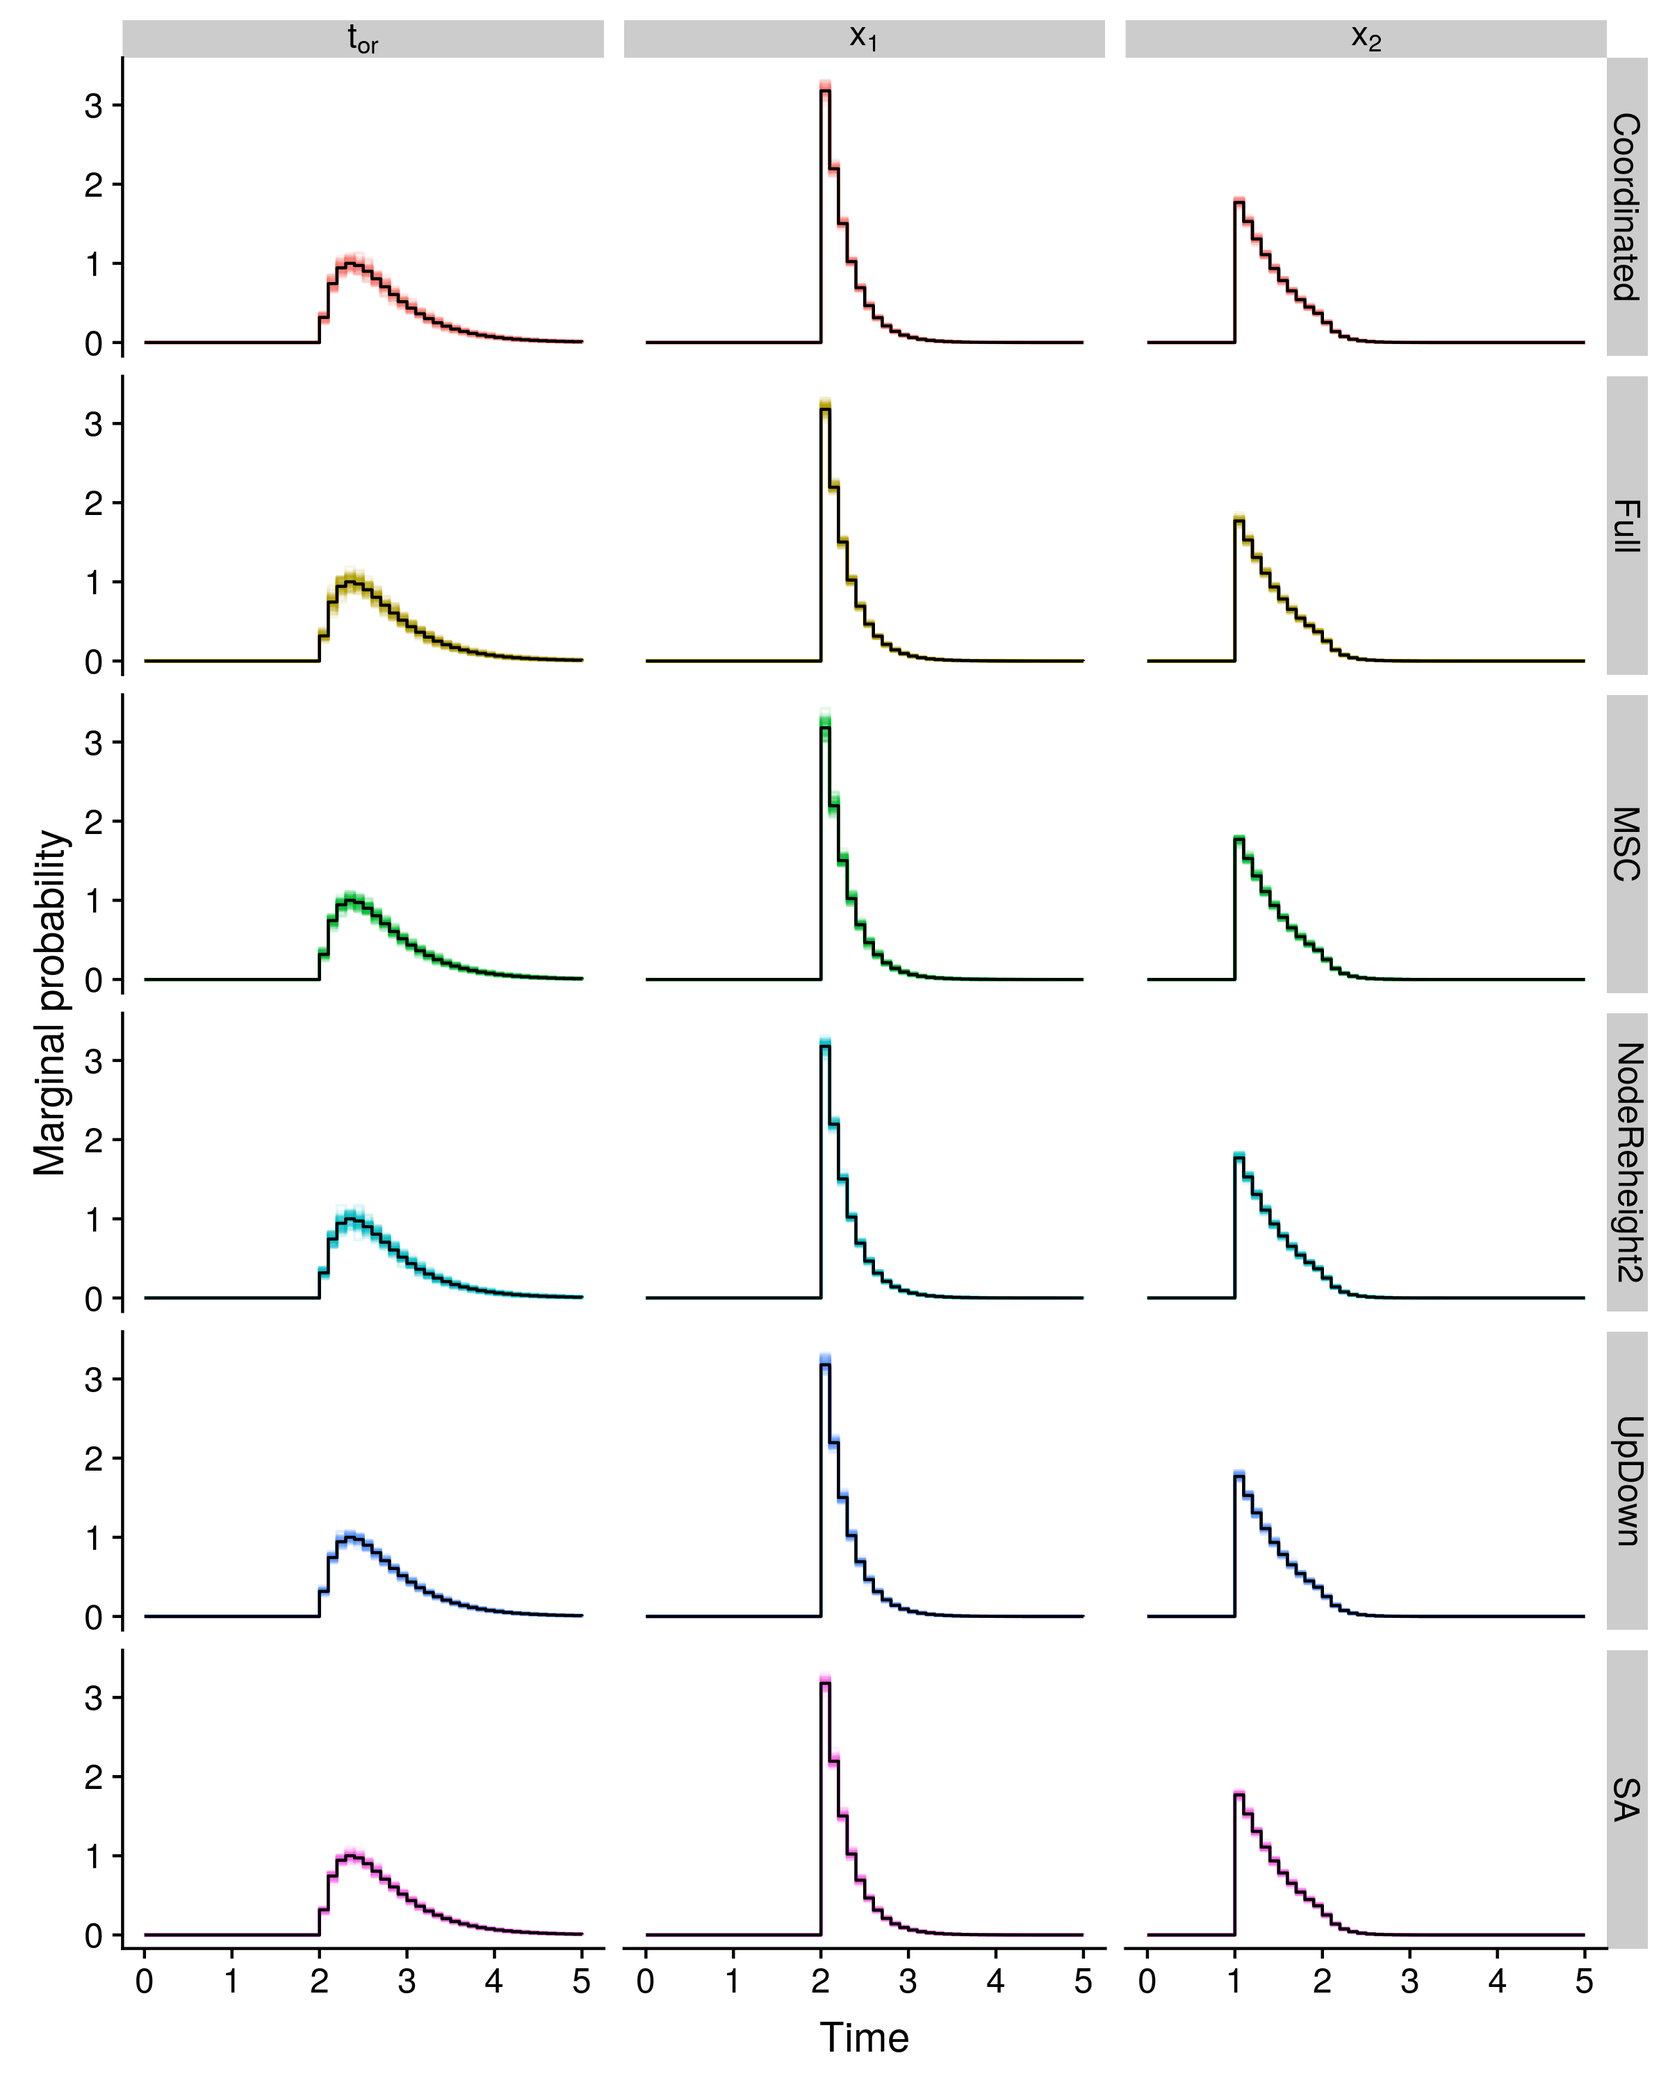
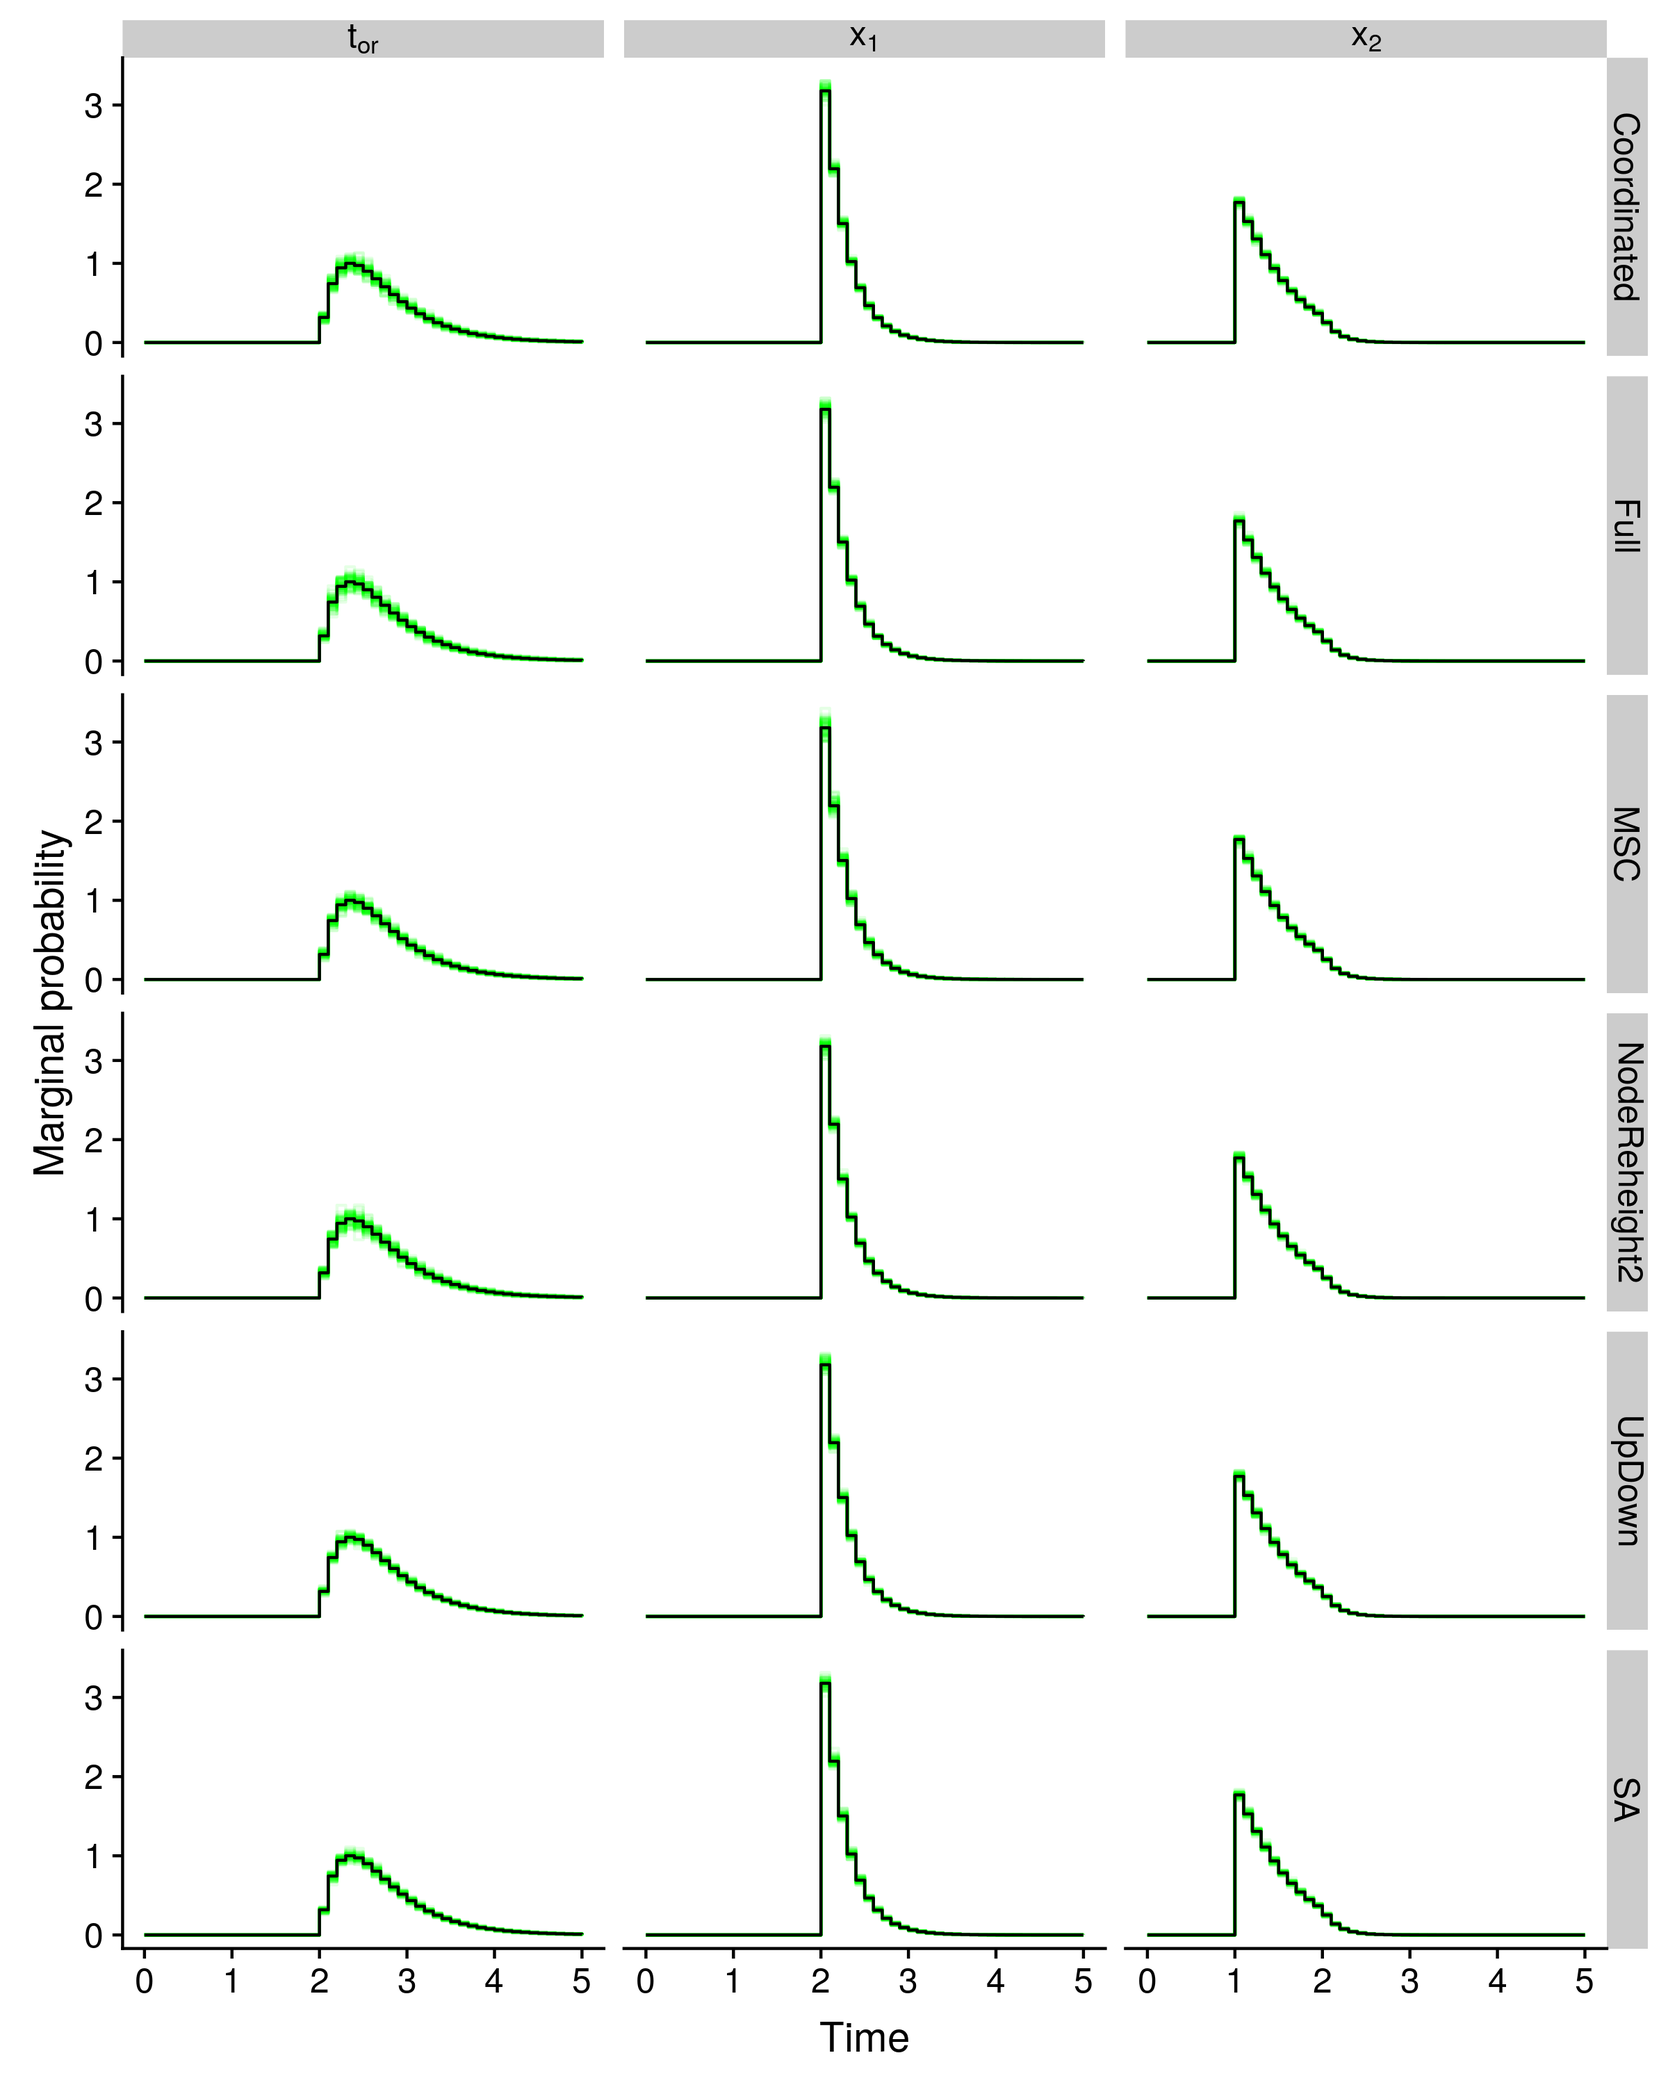
Adding write-up

diff --git a/prepare-correctness.py b/prepare-correctness.py
@@ -1,40 +1,41 @@
 import os
-import sys
 import numpy
 import xml.etree.ElementTree as ET
 
-configuration = sys.argv[1].rstrip("/")
-template_fn = configuration + ".xml"
-template_path = os.path.join(configuration, template_fn)
-xml_tree = ET.parse(template_path)
-xml_root = xml_tree.getroot()
+configurations = ["updownless", "sa", "msc", "coordinated", "nodereheight", "full"]
 
-n_replicates = 100
+for configuration in configurations:
+	template_fn = configuration + ".xml"
+	template_path = os.path.join(configuration, template_fn)
+	xml_tree = ET.parse(template_path)
+	xml_root = xml_tree.getroot()
 
-numpy.random.seed()
+	n_replicates = 100
 
-master_fn = "kickoff.sh"
-master_path = os.path.join(configuration, master_fn)
-master_file = open(master_path, "w")
+	numpy.random.seed()
 
-beast_cmd = "~/beast/bin/beast"
+	master_fn = "kickoff.sh"
+	master_path = os.path.join(configuration, master_fn)
+	master_file = open(master_path, "w")
 
-for rep_i in range(n_replicates):
-	rep_name = "%s.%03d" % (configuration, rep_i)
-	for logger_element in xml_root.findall(".//logger"):
-		if "fileName" in logger_element.attrib:
-			original_fn = logger_element.attrib["fileName"]
-			original_ext = original_fn[original_fn.rfind("."):]
-			new_fn = rep_name + original_ext
-			logger_element.attrib["fileName"] = new_fn
+	beast_cmd = "~/beast/bin/beast"
 
-	output_fn = rep_name + ".xml"
-	output_path = os.path.join(configuration, output_fn)
-	xml_tree.write(output_path)
+	for rep_i in range(n_replicates):
+		rep_name = "%s.%03d" % (configuration, rep_i)
+		for logger_element in xml_root.findall(".//logger"):
+			if "fileName" in logger_element.attrib:
+				original_fn = logger_element.attrib["fileName"]
+				original_ext = original_fn[original_fn.rfind("."):]
+				new_fn = rep_name + original_ext
+				logger_element.attrib["fileName"] = new_fn
 
-	random_seed = numpy.random.randint(1, 2**32 - 1)
+		output_fn = rep_name + ".xml"
+		output_path = os.path.join(configuration, output_fn)
+		xml_tree.write(output_path)
 
-	beast_args = ["-overwrite", "-seed", str(random_seed), "-statefile", rep_name + ".state", "-threads", "1", output_fn]
-	master_file.write(beast_cmd + " " + " ".join(beast_args) + "\n")
+		random_seed = numpy.random.randint(1, 2**32 - 1)
 
-master_file.close()
+		beast_args = ["-overwrite", "-seed", str(random_seed), "-statefile", rep_name + ".state", "-threads", "1", output_fn]
+		master_file.write(beast_cmd + " " + " ".join(beast_args) + "\n")
+
+	master_file.close()

diff --git a/read-trees.py b/read-trees.py
@@ -14,8 +14,7 @@ def calculate_sa_code(tree):
 
 	return sa_code
 
-# configurations = ["sa", "msc", "coordinated", "nodereheight", "full"]
-configurations = ["updownless"]
+configurations = ["updownless", "sa", "msc", "coordinated", "nodereheight", "full"]
 n_reps = 100
 
 # avoid dendropy memory leak by calling self

diff --git a/summarize-trees.py b/summarize-trees.py
@@ -10,7 +10,6 @@ burnin = 5001
 n_raw = 20000
 
 configurations = ["full", "nodereheight", "coordinated", "msc", "sa", "updownless"]
-# configurations = ["full", "sa"]
 
 marginals_filename = "estimated-marginals.csv"
 marginals_file = open(marginals_filename, "w")

diff --git a/README.md b/README.md
@@ -1,1 +1,191 @@
-# msc-fbd-correctness
+# StarBEAST2 FBD-MSC correctness
+
+## Introduction
+
+The aim of this analysis is to check the mathematical correctness of the
+FBD-MSC implementation in StarBEAST2. For the implementation to be correct,
+the probability density calculated for a proposed species and gene trees given
+the fossilized birth death model and multispecies coalescent model must be
+correct. In addition, for each MCMC operator, the proposal distribution must
+be symmetric or the Hastings ratio calculated for that operator must be
+correct.
+
+There are three relevant sets of operators to check; BEAST2 operators,
+StarBEAST2 operators, and Sampled Ancestor operators. The FBD-MSC
+implementation in StarBEAST2 uses operators from all three sets.
+
+By checking estimated species tree topology and time distributions using
+different combinations of operators against the true distributions, we can
+confirm that the probability density calculation and operators used are
+mathematically correct.
+
+## Operators
+
+Apart from UpDown, which is used to change both species and gene trees, BEAST2
+tree operators are only used to change the gene trees in our FBD-MSC
+implementation. These operators are TreeScaler, TreeRootScaler, Uniform,
+SubtreeSlide, Narrow, Wide, and WilsonBalding. The BEAST2 Scale operator is
+used to change the other real parameters of the model, e.g. the origin height.
+See [Drummond & Bouckaert (2015)](https://www.beast2.org/book/) for more
+information.
+
+The Sampled Ancestor operators are used to change the species tree. They are
+LeafToSampledAncestorJump, SATreeScaler, SATreeRootScaler, SAUniform,
+SANarrow, SAWide and SAWilsonBalding. See
+[Gavryushkina *et al.* (2014)](https://doi.org/10.1371/journal.pcbi.1003919)
+for more information.
+
+One class of StarBEAST2 operators are the Coordinated operators,
+which make coordinated changes to the heights of species and gene tree nodes.
+CoordinatedUniform changes the height of a single non-root internal species
+tree node, and CoordinatedExponential changes the height of the species tree
+root node. See [Ogilvie *et al.* (2017)](https://doi.org/10.1093/molbev/msx126)
+for more information. These operators have been modified to only change the
+height of nodes corresponding to true bifurcations in the species tree, i.e.
+not a sampled ancestor node.
+
+The other StarBEAST2 operator is NodeReheight2, which improves TREE SLIDE,
+developed by Joseph Heled and based on the ideas of
+[Mau *et al.* (1999)](https://doi.org/10.1111/j.0006-341X.1999.00001.x).
+See section 3.4.1 of Heled's 2011 PhD thesis "Bayesian Computational Inference
+of Species Trees and Population Sizes" for more information.
+In StarBEAST2 v15.5 TREE SLIDE has been reimplemented from scratch and made
+compatible with fossil/ancient taxa including sampled ancestors. To stay
+backwards compatible with previous versions of StarBEAST2, it is called
+NodeReheight2, the name of a similar operator that only works on ultrametric
+trees.
+
+## Model parameters
+
+We replicated the analysis in
+[Gavryushkina *et al.* (2014)](https://doi.org/10.1371/journal.pcbi.1003919)
+Supporting Information, "Testing operators". The model parameters are:
+
+* Birth rate = 2
+* Death rate = 1
+* Sampling rate = 0.5
+* Removal probability = 0.9
+* Time of origin ~ Uniform(0, 1000)
+
+Three species are included with fixed dates y1 = 2, y2 = 1, and y3 = 0. A
+maximum of three real parameters are sampled; the time of origin and two
+bifurcation times. If the species serially sampled at y1 or y2 are sampled
+ancestors, then there will only be one or zero bifurcation times to estimate.
+There are eight possible topologies given two fossil/ancient species, and
+Gavryushkina *et al.* (2014) calculated their true probabilities (absent
+any data) as:
+
+
+| Topology | Newick string | Probability % |
+|----------|---------------|---------------|
+| T1       | ((3,2),1)     |       77.8327 |
+| T2       | ((3,2)1)      |        7.8642 |
+| T3       | ((3)2,1)      |        3.8657 |
+| T4       | (3,(2,1))     |        4.3189 |
+| T5       | ((3,1),2)     |        4.3189 |
+| T6       | (((3)2)1)     |        0.4135 |
+| T7       | (3,(2)1)      |        0.6930 |
+| T8       | ((3)1,2)      |        0.6930 |
+
+As the coalescent probability densities are conditioned on the species tree,
+the FBD-MSC model is hierarchical and absent any data the addition of one or
+more gene trees to the model should not change the distribution of species
+tree topologies or times.
+
+## BEAST2 and StarBEAST2 configurations
+
+Keeping the above model parameters constant, we set up six different BEAST2
+analyses, each with a different combination of operators:
+
+* SA: Sampled Ancestor operators applied to a single tree (no gene trees were part of the model and StarBEAST2 was not activated)
+* UpDown: The same as SA, but with the UpDown operator enabled for the species tree
+* MSC: StarBEAST2 with one gene tree, but only BEAST2 and Sampled Ancestor operators were used, no StarBEAST2 operators were enabled
+* Coordinated: StarBEAST2 with one gene tree, and only the Coordinated, BEAST2 and Sampled Ancestor operators were used, NodeReheight2 was not enabled.
+* NodeReheight2: StarBEAST2 with one gene tree, and only the NodeReheight2, BEAST2 and Sampled Ancestor operators were used, Coordinated operators were not enabled.
+* Full: StarBEAST2 with one gene tree, all operators were used.
+
+For each configuration, we ran 100 replicate MCMC chains with different random
+seeds. Each chain was run for 2.5 million states, with a burnin of 0.5 million
+states, sampling once every 100 states. Therefore 20000 post-burnin
+posterior samples were collected per replicate chain.
+
+## Topology distributions
+
+Given *n* independent trials with probability of success *p*, the number of
+"successes" should follow the binomial distribution parameterized by *n* and
+*p*. Therefore for each topology, the range defined by the 2.5th and 97.5th
+percentile of a binomial distribution with the parameter values *n* =
+effective sample size (ESS) and *p* = the true probability of a topology,
+after normalization by the effective sample size, should contain the estimated
+probability of that topology 95% of the time.
+
+For each MCMC chain we calculated the estimated probability of each topology
+as the number of observations of that topology divided by the total number of
+samples. We also calculated the autocorrelation time for each topology in each
+chain by coding samples containing that topology as 1 and all other samples as
+0, then using the `integrated_autocorrelation_time` function from
+[pymcmcstat](https://github.com/prmiles/pymcmcstat).
+This function is based on Sokal (1989). The ESS for each topology in a chain
+is simply the raw number of samples divided by the estimated autocorrelation
+time.
+
+For each topology in each configuration, we counted the number of replicate
+chains for which the estimated probability of that topology was within the 95%
+interval. As expected given a correct implementation of the model, these sums
+were all around 95 (out of 100 replicate chains each).
+
+| Configuration | T1 | T2 | T3 | T4 | T5 | T6 | T7 | T8 |
+|---------------|----|----|----|----|----|----|----|----|
+| SA            | 95 | 95 | 97 | 91 | 95 | 95 | 95 | 98 |
+| UpDown        | 94 | 97 | 95 | 97 | 96 | 95 | 94 | 93 |
+| MSC           | 92 | 96 | 95 | 97 | 93 | 95 | 95 | 93 |
+| Coordinated   | 96 | 95 | 93 | 95 | 90 | 95 | 97 | 97 |
+| NodeReheight2 | 95 | 98 | 94 | 96 | 97 | 96 | 95 | 95 |
+| Full          | 91 | 92 | 94 | 96 | 97 | 98 | 99 | 96 |
+
+## Time distributions
+
+Fundamentally, MCMC is an algorithm for performing difficult high dimensional
+integrations, e.g. calculating the marginal probability distribution of the
+height of a node in a phylogenetic tree. For the species tree topologies in
+this analysis we are estimating a maximum of three real parameters, so it is
+not necessary to use MCMC and we can use an alternative implementation of the
+FBD to calculate the marginal probability distributions of those real
+parameters. If both our MCMC and non-MCMC implementations are correct, the
+estimated distributions should be identical (up to some small error term).
+
+We reimplemented the FBD for the most probable species tree topology given our
+model, which is encoded by the Newick string ((3,2),1). This implementation
+was written in Python 3 using the SciPy library, which calls the QUADPACK
+library to integrate over any interval using adaptive or non-adaptive
+quadrature.
+
+For each real parameter (the time of origin, the root node height x1, and the
+non-root internal node height x), separately for each replicate MCMC chain, we
+calculated probability masses conditioned on the T1 species tree topology.
+Masses were calculated for 100 equal width intervals (0.1 time units each)
+between 0 and 10. For each interval we recalculated the same probability
+masses using our quadrature implementation.
+
+For each real parameter and MCMC configuration, we plotted the marginal
+probability density of the quadrature integration as a black line, and the
+marginal probability densities calculated from corresponding replicate chains
+as green lines:
+
+![alt text](marginal-probability.png "Marginal probability distributions of origin and bifurcation times.")
+
+For each MCMC configuration and real parameter, the marginal probability
+densities calculated using quadrature were in the middle of the range of
+marginal probability densities calculated using the replicate chains. This is
+strong evidence for the correctness of StarBEAST2 for sampled ancestors.
+
+## Scripts
+
+* `integrate-fbd.py`: Calculates probability masses using quadrature integration
+* `prepare-correctness.py`: Prepares replicate chain files and kickoff scripts from the supplied XML templates
+* `kickoff.sh`: Runs BEAST for each replicate chain
+* `read-trees.py`: For each MCMC chain, extracts the species tree topology and times for each MCMC sample using the DendroPy library
+* `summarize-trees.py`: Calculates probability masses from the topologies and times extracted from the MCMC chains
+* `make-table.py`: Makes the table of counts of within-95%-interval topology probabilities
+* `plot-marginals.R`: Plots the real parameter marginal densities
+* 
